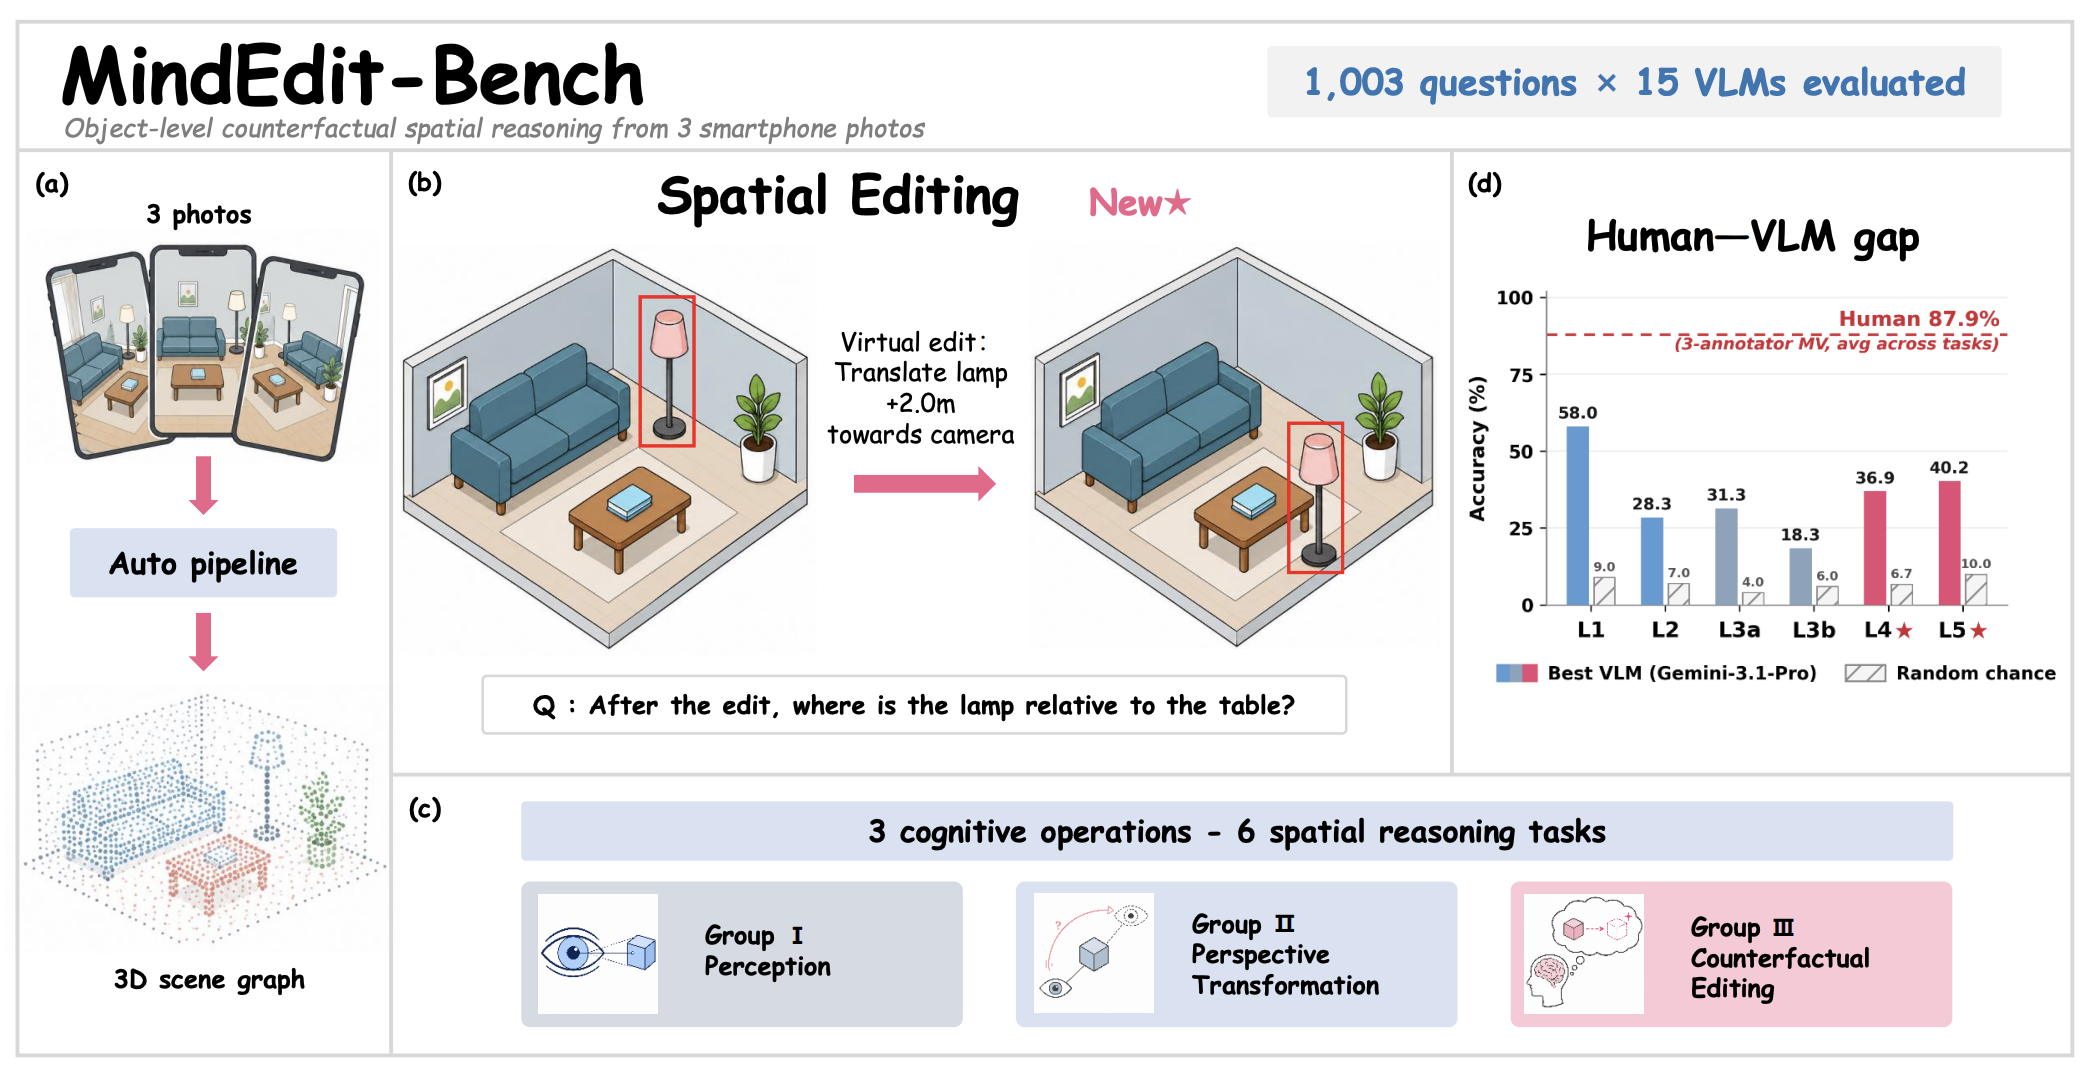
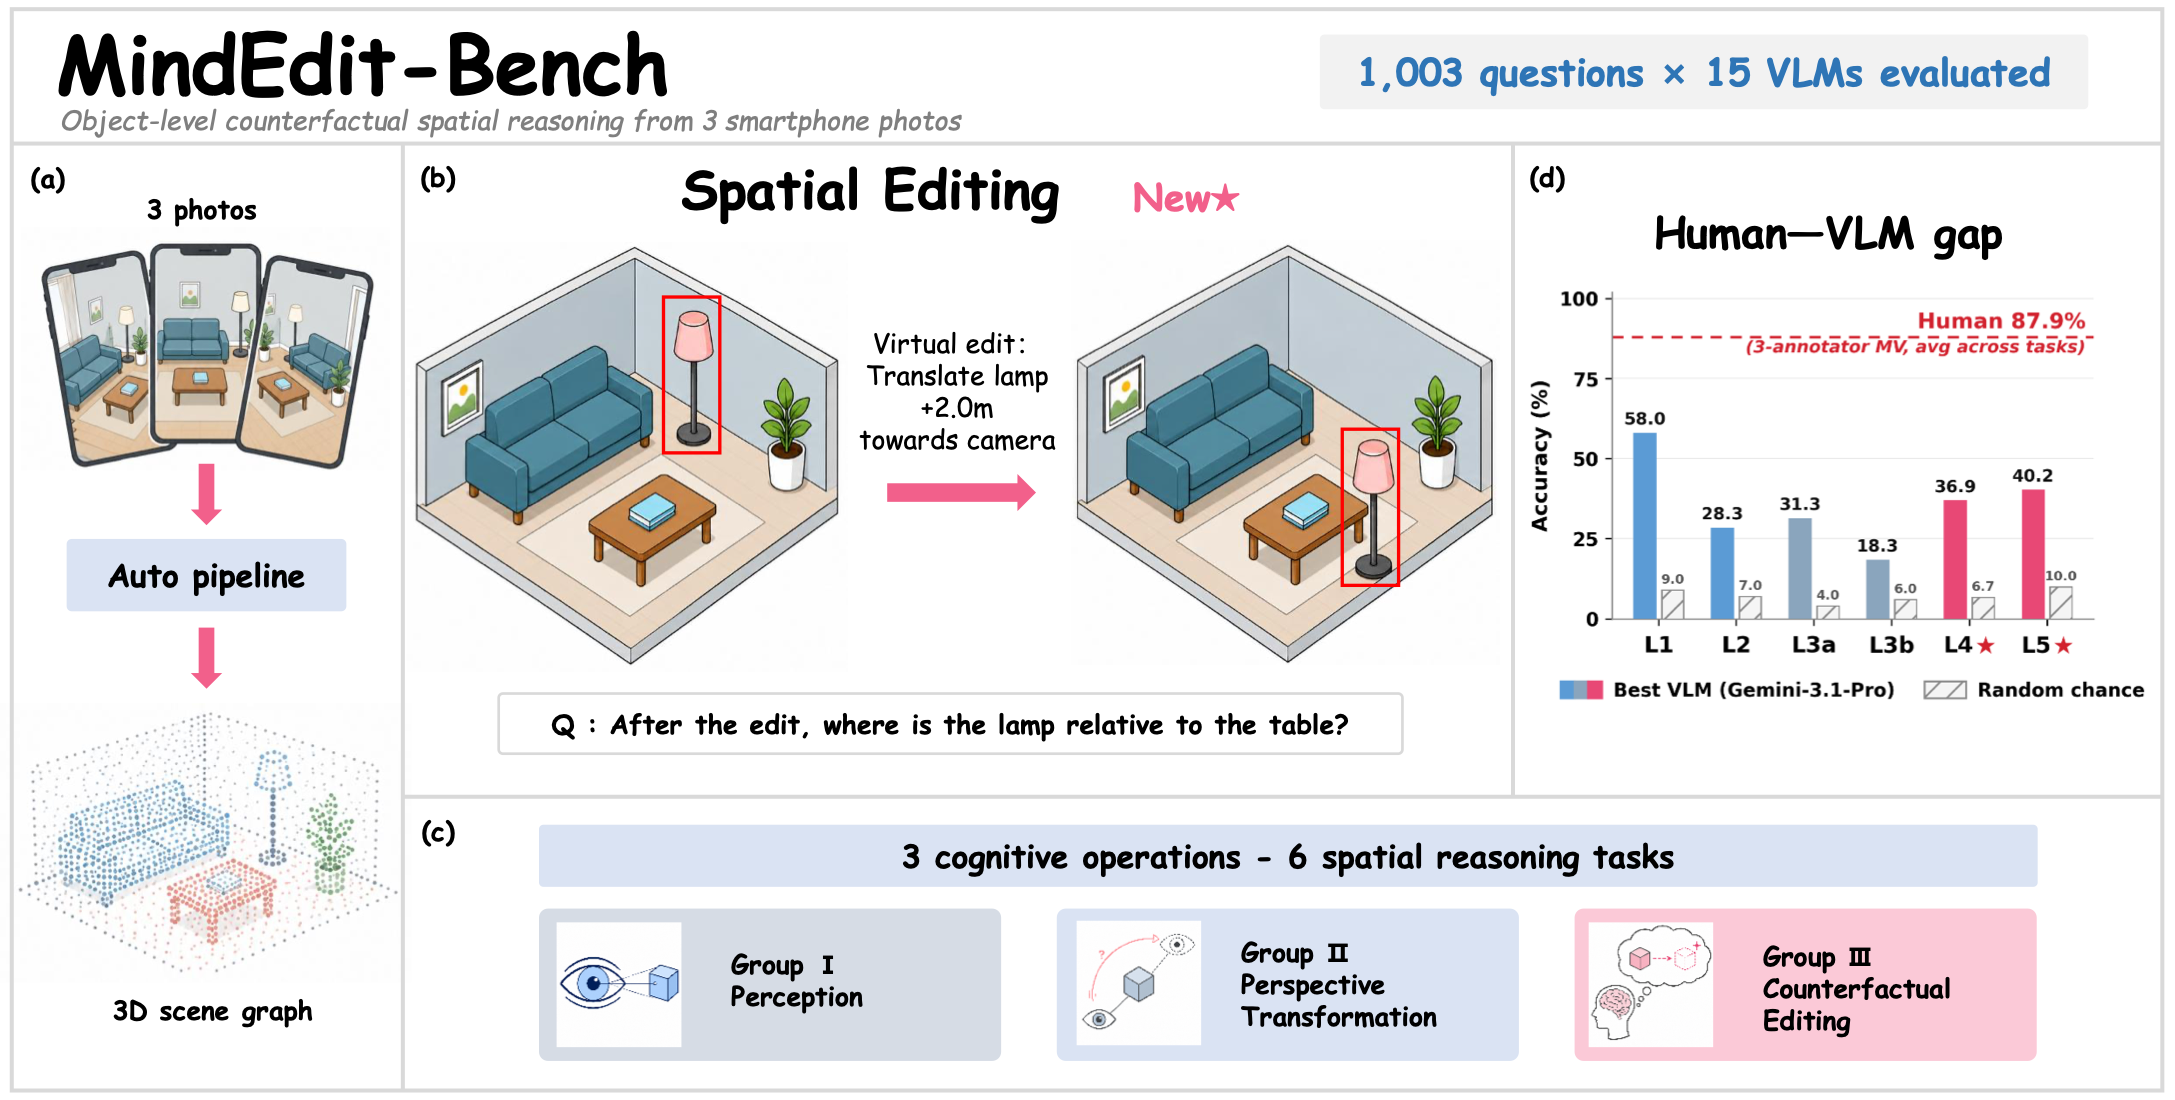
Align publication figures to LIFT aspect ratio

diff --git a/assets/css/main.scss b/assets/css/main.scss
@@ -64,10 +64,11 @@
             display: block;
             width: 100%;
             height: auto;
-            aspect-ratio: 2 / 1;
+            aspect-ratio: 2540 / 780;
             background-color: #fff;
             box-shadow: 3px 3px 6px #888;
             object-fit: contain;
+            object-position: center;
         }
     }
     

diff --git a/_pages/about.md b/_pages/about.md
@@ -40,7 +40,7 @@ Leyuan Yu, Xiao Tang, Minghao Liu, Xinyuan Li, Xiaokai Bai, <u>Xiang Li</u>, She
 </div>
 </div>
 
-<div class='paper-box'><div class='paper-box-image'><div><div class="badge">arXiv 2026</div><img src='images/lift.jpg' alt="sym" width="100%"></div></div>
+<div class='paper-box'><div class='paper-box-image'><div><div class="badge">arXiv 2026</div><img src='images/lift.png' alt="LIFT framework overview" width="100%"></div></div>
 <div class='paper-box-text' markdown="1">
 
 [LIFT: Local Metric Alignment and Foundation-guided Propagation for Few-shot Depth Completion](https://arxiv.org/abs/2611.10729)
